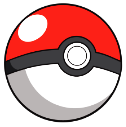
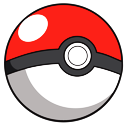
ball adjustmnet

diff --git a/src/pages/components/Header/styles.css b/src/pages/components/Header/styles.css
@@ -19,8 +19,8 @@
   display: flex;
   height: 11px;
   justify-content: flex-end;
-  border-top: 1.5px solid #000;
-  border-bottom: 2px solid #000; }
+  border-top: 1.5px solid #0A0808;
+  border-bottom: 2px solid #0A0808; }
 
 .pokeball {
   align-self: center;

diff --git a/src/pages/components/Header/styles.scss b/src/pages/components/Header/styles.scss
@@ -21,8 +21,8 @@
   display: flex;
   height: 11px;
   justify-content: flex-end;
-  border-top: 1.5px solid #000;
-  border-bottom: 2px solid #000;
+  border-top: 1.5px solid #0A0808;
+  border-bottom: 2px solid #0A0808;
 }
 
 .pokeball {
